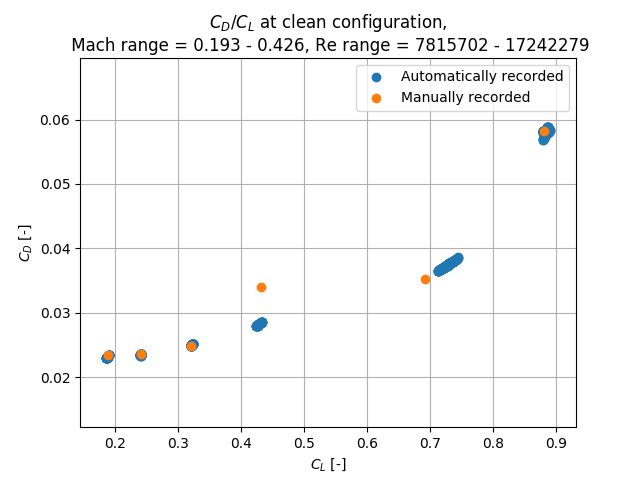
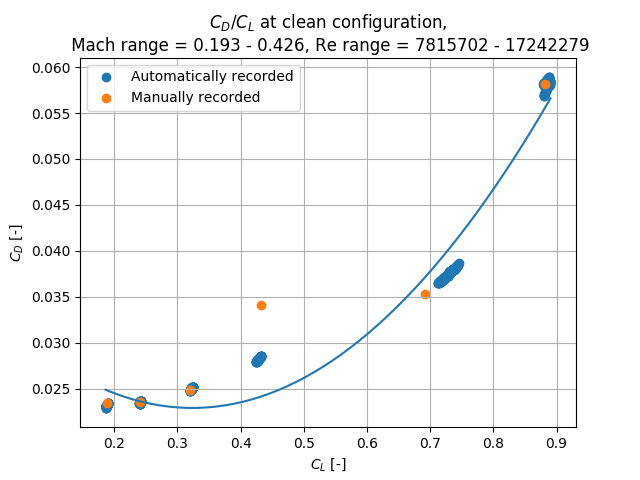
Yay

diff --git a/domas/mainstationary.py b/domas/mainstationary.py
@@ -136,6 +136,9 @@ plt.cla()
 plt.clf()
 
 #Plotting CL-CD
+fit = np.polyfit(CL,CD,2)
+x = np.linspace(min(CL),max(CL))
+plt.plot(x,fit[0]*x**2 + fit[1] *x + fit[2])
 plt.scatter(CL, CD, label = 'Automatically recorded')
 plt.scatter(CLs, CDs, label = 'Manually recorded')
 plt.title('$C_D/C_L$ at clean configuration,\n Mach range = '+Mrange+', Re range = '+Rerange)
